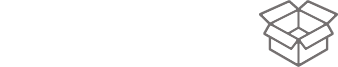
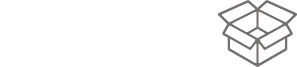
index apple & popup menu done

Changed region(s): [[0.7273, 0.0, 1.0, 1.0]]

diff --git a/index.html b/index.html
@@ -260,18 +260,23 @@
         
         <section class="index-apple">
           <div class="wrapper wrapper--index">
-            <div class="index-apple__text">
-              <h4 class="index-apple__title">Рациональное питание от&nbsp;ТВОЕ МЕНЮ:</h4>
-              <p>&ndash; Профессионализм и опыт шеф-повара – каждый рецепт неоднократно протестирован и, помимо гарантированных гастрономических качеств, <span>содержит объективный расчет белков, жиров, углеводов и калорий.</span></p>
-                <p>&ndash; <span>Яркое многообразие рациона</span> из блюд различных кухонь мира в течение недели, включающего птицу, мясо, рыбу и морепродукты.</p>
+            <div class="index-apple__inner">
+              <img src="img/index_apple.jpg" width="673" height="547" alt="">
+              <div class="index-apple__text">
+                <h4 class="index-apple__title">Рациональное питание от&nbsp;ТВОЕ МЕНЮ:</h4>
+                <p>&ndash; Профессионализм и опыт шеф-повара – каждый рецепт неоднократно протестирован и, помимо гарантированных гастрономических качеств, <span>содержит объективный расчет белков, жиров, углеводов и калорий.</span></p>
+                 <p>&ndash; <span>Яркое многообразие рациона</span> из блюд различных кухонь мира в течение недели, включающего птицу, мясо, рыбу и морепродукты.</p>
+              </div>
             </div>
           </div>
-          <div class="index-apple__link">
-            <div class="wrapper wrapper--index">
-            <a href="#">Посмотри что в коробке<img src="img/arrow-box-index.png" alt="" width="338" height="67"></a>
-            </div>
-          </div>
+          
         </section>
+        
+        <div class="index-apple__link">
+            <div class="wrapper wrapper--index">
+              <a href="#">Посмотри что в коробке<img src="img/arrow-box-index.png" alt="" width="297" height="67"></a>
+            </div>
+        </div>
         
         <section class="index-advantages">
          <div class="wrapper wrapper--index">
@@ -337,16 +342,16 @@
     
     
     <div class="popup-menu">
-      <div class="popup-menu__item">
+      <div class="popup-menu__item popup-menu__item--dinner">
         <div class="popup-menu__title">Ужины</div>
         <a href="#" class="popup-menu__link">с 29 февраля по 4 марта</a>
         <a href="#" class="popup-menu__link">с 7 марта по 11 марта</a>
       </div>
-      <div class="popup-menu__item">
+      <div class="popup-menu__item popup-menu__item--smoothies">
         <div class="popup-menu__title">Смузи</div>
         <a href="#" class="popup-menu__link">с 29 февраля по 4 марта</a>
       </div>
-      <div class="popup-menu__item">
+      <div class="popup-menu__item popup-menu__item--sandwich">
         <div class="popup-menu__title">Сэндвич-start</div>
         <a href="#" class="popup-menu__link">с 29 февраля по 4 марта</a>
       </div>

diff --git a/less/blocks/index-explic.less b/less/blocks/index-explic.less
@@ -2,7 +2,7 @@
   background-image:  url("../img/bg-index-grey.jpg");
   font-family: "Neucha", "Arial", sans-serif;
   position: relative;
-  padding-bottom: 45px; 
+  padding-bottom: 65px; 
 
   &::before {
     position: absolute;
@@ -26,7 +26,7 @@
 .index-explic__items {
   display: flex;
   justify-content: space-between;
-  padding: 0 50px;
+  padding: 0 45px;
 }
 
 .index-explic__item {
@@ -46,7 +46,7 @@
     width: 69px;
     height: 26px;
     background-image: url("../img/icon-arrow-graphic.png");
-    top: 25px;
+    top: 55px;
     right: -20px;
   }
   
@@ -70,45 +70,54 @@
 
 .index-explic__item--dish {
   width: 190px;
+  
   &::before {
-  width: 124px;
-  height: 121px;
-  background-image: url("../img/icon-dish-graphic.png");
-}
+    width: 124px;
+    height: 121px;
+    left: 27px;
+    background-image: url("../img/icon-dish-graphic.png");
+  }
 }
 
 .index-explic__item--tel {
-  width: 200px;
+  width: 210px;
+  
   &::before {
     width: 84px;
     height: 84px;
+    left: 35px;
+    top: 10px;
     background-image: url("../img/icon-tel-graphic.png");
   }
 }
 
 .index-explic__item--basket {
   width: 212px;
+  
  &::before {
-  width: 86px;
-  height: 94px;
-  background-image: url("../img/icon-basket-graphic.png");
-}
+    width: 86px;
+    height: 94px;
+   left: 40px;
+    background-image: url("../img/icon-basket-graphic.png");
+  }
 }
 
 .index-explic__item--delivery {
   width: 160px;
   &::before {
-  width: 103px;
-  height: 109px;
-  background-image: url("../img/icon-delivery-graphic.png");
-}
+    width: 103px;
+    height: 109px;
+    background-image: url("../img/icon-delivery-graphic.png");
+  }
 }
 
 .index-explic__item--pleasure {
   width: 230px;
+  
   &::before {
-  width: 103px;
-  height: 109px;
-  background-image: url("../img/icon-food-graphic.png");
-}
+    width: 103px;
+    height: 109px;
+    left: 25px;
+    background-image: url("../img/icon-food-graphic.png");
+  }
 }

diff --git a/less/blocks/popup.less b/less/blocks/popup.less
@@ -145,17 +145,70 @@
 /*модальное окно главная страница - меню недели*/
 
 .popup-menu {
+  display: none;
   background-color: #000000;
-  padding-top: 60px;
+  padding-top: 50px;
   padding-bottom: 20px;
+  width: 360px;
+  background-image: url("../img/bg-popup-menu.jpg");
+  background-position: top center;
+  position: absolute;
+  top: 166px;
+  left: 110px;
+  
+  &::after {
+    top:0;
+    left: 115px;
+    position: absolute;
+    content: "";
+    width: 0;
+	height: 0;
+	border-left: 20px solid transparent;
+	border-right: 20px solid transparent;
+	border-top: 20px solid #009036;
+  }
 }
 
 .popup-menu__item {
   font-family: "Neucha", "Arial", sans-serif;
   font-size: 22px;
-  margin-bottom: 40px;
+  margin-bottom: 30px;
   padding-left: 128px;
   position: relative;
+  
+  &::before {
+    position: absolute;
+    content: "";
+    top:0;
+    left: 10px;
+    background-repeat: no-repeat;
+  }
+}
+
+.popup-menu__item--dinner {
+  &::before {
+    background-image: url("../img/icon-dish-popup.png");
+    width: 116px;
+    height: 66px;
+  }
+}
+
+.popup-menu__item--smoothies {
+  &::before {
+    background-image: url("../img/logo-smoothies-popup.png");
+    left: 35px;
+    width: 54px;
+    height: 66px;
+  }
+}
+
+.popup-menu__item--sandwich {
+  &::before {
+    background-image: url("../img/icon-sandwich-popup.png");
+    left: 15px;
+    width: 96px;
+    height: 79px;
+  }
 }
 
 .popup-menu__title {
@@ -165,4 +218,5 @@
 .popup-menu__link {
   text-decoration: none;
   color: #ffffff;
+  display: block;
 }

diff --git a/less/blocks/index-apple.less b/less/blocks/index-apple.less
@@ -1,11 +1,26 @@
 .index-apple {
   background-image: url("../img/bg-index-apple.jpg");
+
   background-size: cover;
+  padding-top: 60px;
+  padding-bottom: 20px;
+}
+
+.index-apple__inner {
+  padding: 0 40px;
+  position: relative;
+  display: flex;
+  img {
+    margin-left: auto;
+  }
 }
 
 .index-apple__text {
+  position: absolute;
+  top: 0;
+  right: 40px;
   font-size: 18px;
-  padding: 80px 15px;
+  padding: 43px 15px;
   width: 260px;
   background-color: rgba(0,0,0,0.4);
   color: #ffffff;
@@ -28,5 +43,9 @@
     font-family: "Neucha", "Arial", sans-serif;
     color: #ffffff;
     text-decoration: none;
+    display: flex;
+    align-items: center;
+    justify-content: center;
+  
   }
 }

diff --git a/less/blocks/index-compare.less b/less/blocks/index-compare.less
@@ -11,6 +11,7 @@
     width: 100%;
     top: -30px;
     background-image: url("../img/bg-index-compare.png");
+    background-position: center;
   }
 }
 
@@ -34,10 +35,13 @@
     }
 
   }
+  
+  .index-compare__category {
+    font-size: 24px;
+    color: #949494;
+    padding-right: 0;
 }
 
-.index-compare__category {
-  font-size: 24px;
-  color: #949494;
 }
+
 
